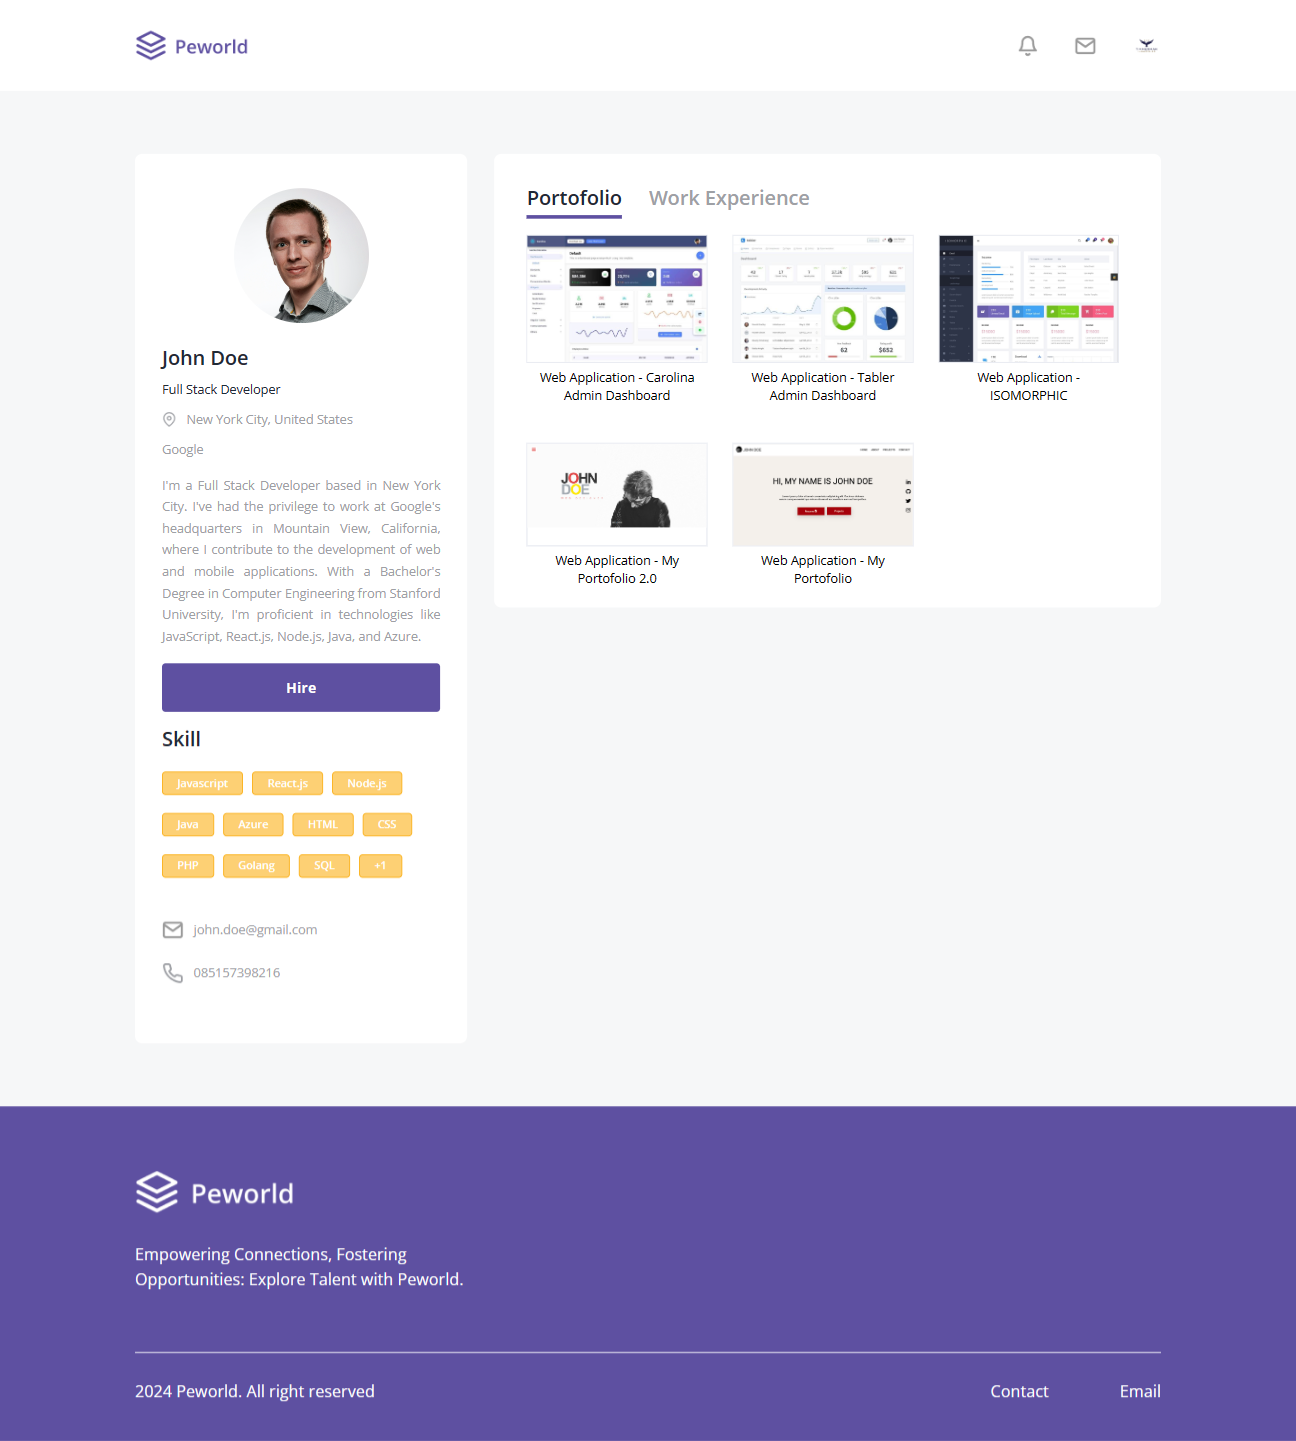
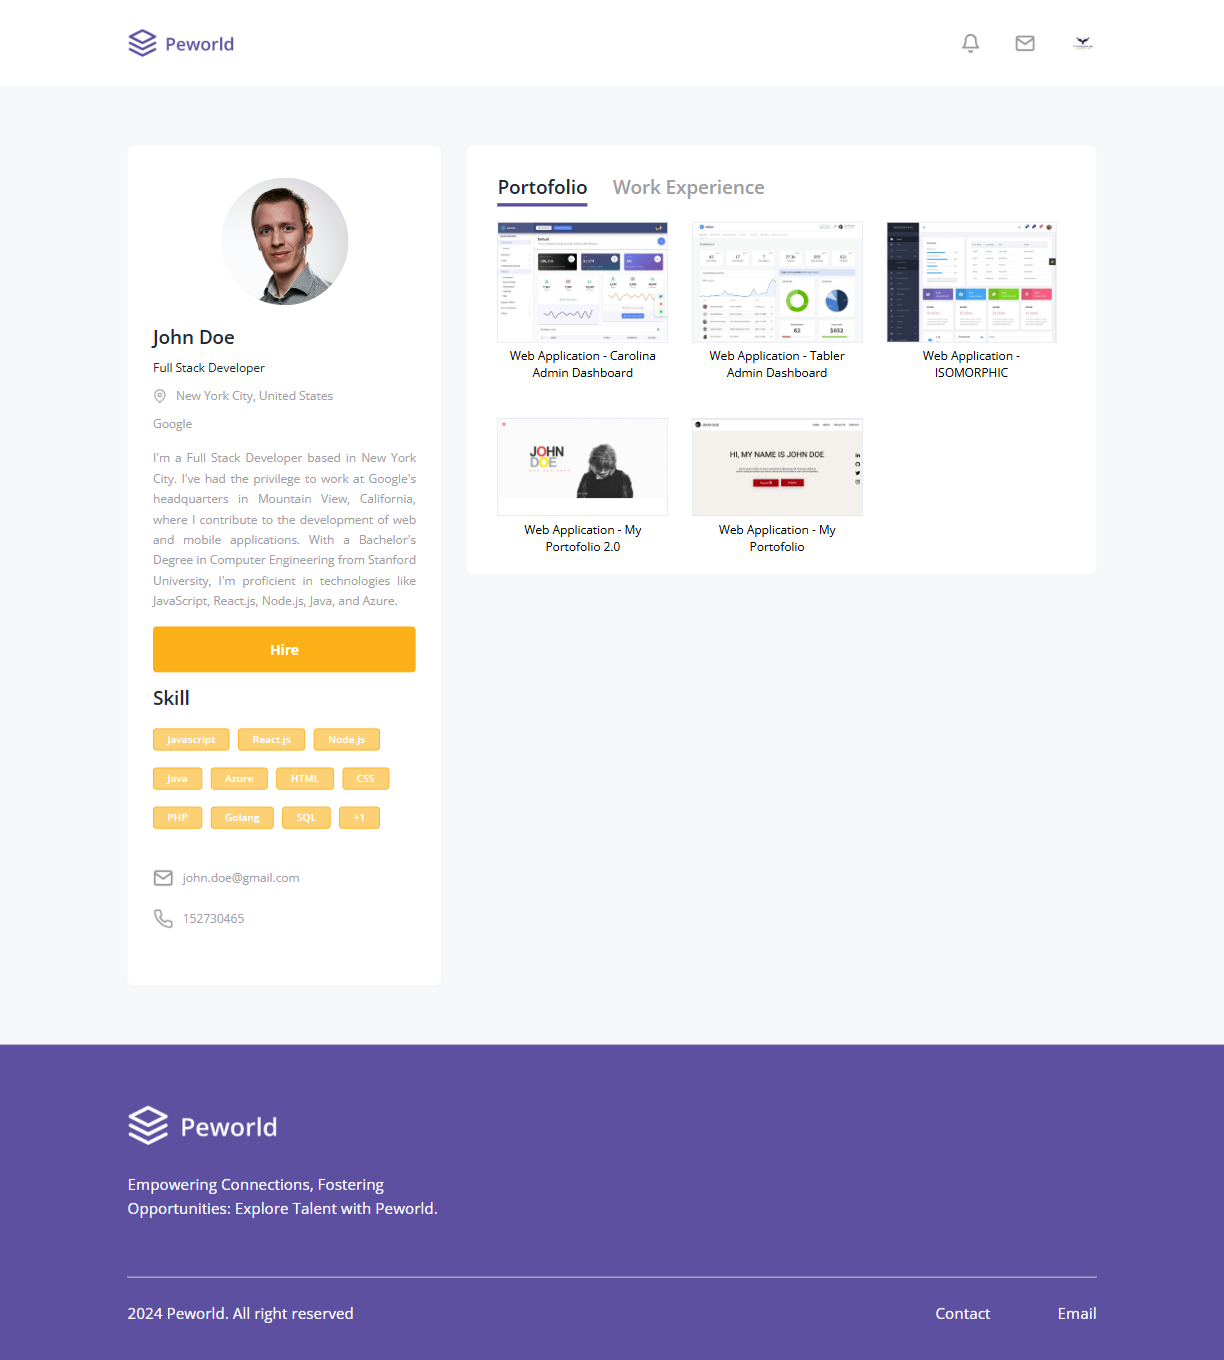
updating hire button

diff --git a/src/pages/main/profile/worker/ViewWorker/index.jsx b/src/pages/main/profile/worker/ViewWorker/index.jsx
@@ -102,7 +102,7 @@ const ViewWorker = () => {
 
               {role === "recruiter" && (
                 <Button
-                  colorButton={`primary`}
+                  colorButton={`secondary`}
                   extra={`py-[15px]`}
                   onClick={() => navigate(`/main/hire/${user.id}`)}
                 >
